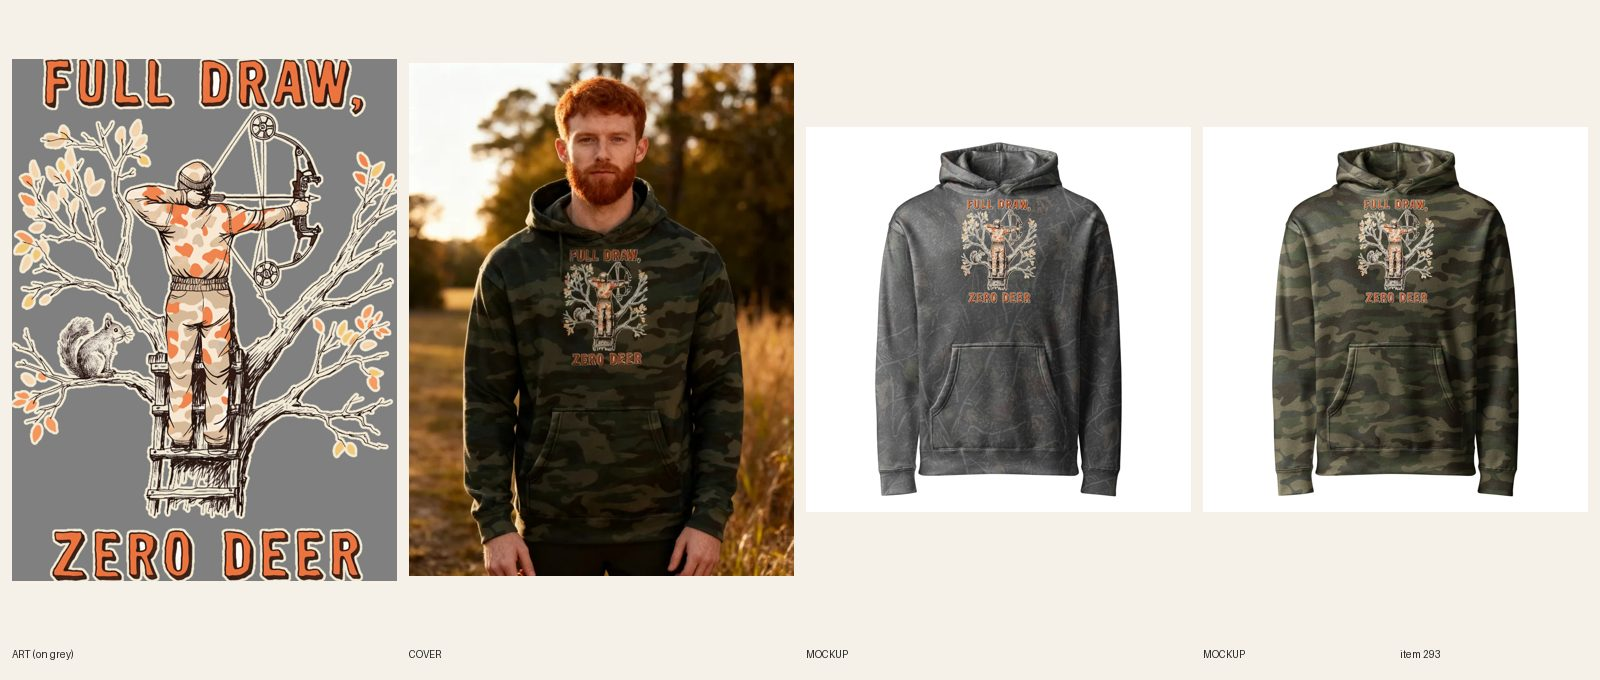
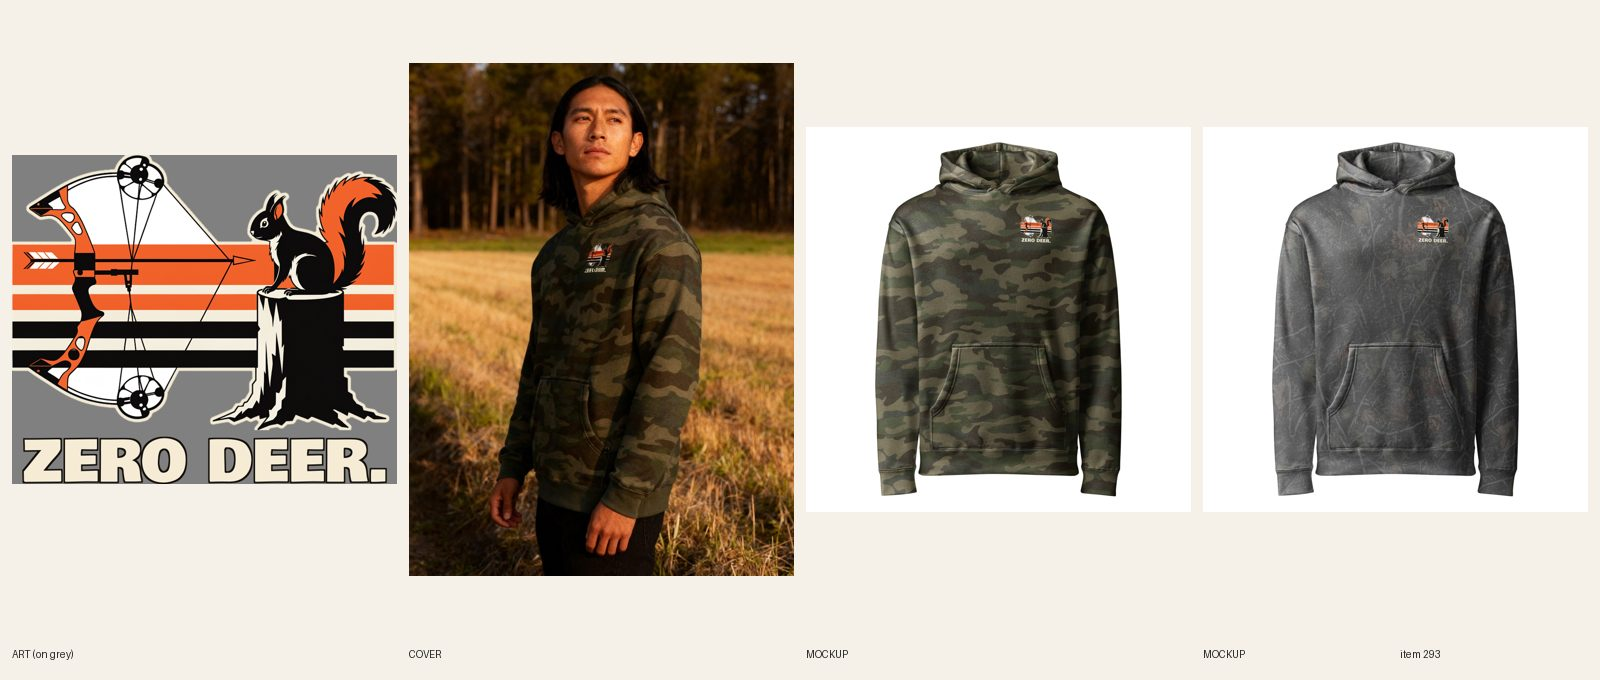
[B] review 293 camo redo 20 (bow vs squirrel B3, lifestyle photos); run end, release lock
Claude-Session: https://claude.ai/code/session_01SLsSLSjLLt4DaKFGsDRRFW

diff --git a/designs/b293/lock.py b/designs/b293/lock.py
@@ -1,0 +1,14 @@
+import sys, subprocess; sys.path.insert(0, '.')
+from designs.lib import *
+from PIL import Image
+W = 2352; DARK = (20, 16, 12, 255)
+subprocess.run(['/usr/bin/python3', 'scripts/camo-halo.py', 'designs/b293/art_p.png', 'designs/b293/art_h.png', '50', '16'], check=True)
+ah = Image.open('designs/b293/art_h.png').convert('RGBA'); ah = ah.crop(ah.getbbox())
+ah = ah.resize((W, int(ah.height * W / ah.width)), Image.LANCZOS)
+t = line('ZERO DEER.', 'bowlby', 0.95, W, CREAM, DARK, kw=19)
+gap = 40; H = ah.height + gap + t.height; out = Image.new('RGBA', (W, H), (0, 0, 0, 0))
+out.alpha_composite(ah, ((W - ah.width) // 2, 0)); out.alpha_composite(t, ((W - t.width) // 2, ah.height + gap))
+out = out.crop(out.getbbox()); out.save('docs/print-files/293-zero.png', dpi=(300, 300))
+print(out.size, 'art', ah.size, 'art %of height', 100 * ah.height // out.height, 'cap', t.height, 'text w', t.width, 'cap at FW625 px', round(t.height * 625 / out.width))
+for n, c in (('darkwood', (60, 56, 44, 255)), ('forest', (52, 62, 44, 255))):
+    b = Image.new('RGBA', out.size, c); b.alpha_composite(out); b.convert('RGB').resize((500, int(500 * out.height / out.width))).save(f'designs/b293/prev_{n}.png')

diff --git a/docs/intake-log.md b/docs/intake-log.md
@@ -1,4 +1,5 @@
-RUNNING lane B since 2026-10-27 17:45 UTC
+2026-10-27 18:00 UTC — [B] Builder run end: 2 items, camo redo #19 #231 (Opening Day buck sunrise, A+) and #20 #293 (Zero Deer bow vs squirrel, B3); both ACTIVE, director to confirm. New products today: 0 of 6. fal ~$0.75. Lock released.
+2026-10-27 17:58 UTC — [B] REVIEW #293 Men's Hunting – Zero Deer Camo Hoodie (camo-redo 20 of 27, S4 retro on B3, FW625 TOP300 LEFT1475, 14/14 on 1096516360, line ZERO DEER. in Bowlby One, art 83% of height, cap 77 px at FW625; new title per 7i; 2 lifestyle photos). Product ACTIVE, director to confirm. fal ~$0.35.
 2026-10-27 17:50 UTC — [B] REVIEW #231 Men's Hunting – Opening Day Camo Hoodie (camo-redo 19 of 27, S1 on A+, FW1500 TOP400, 14/14 on 1096509552, headline 2692 / punch 3001 px = 111%, subject 87%, cap 120 px at FW1500, Playfair Display; 2 lifestyle photos after one retry each). Product ACTIVE, director to confirm. fal ~$0.36.
 2026-10-27 15:07 UTC — [D] Director run: inbox nothing new from Sam. Reviewed 2 camo redo sheets, both LIVE in place (already ACTIVE, not new products): #230 Kick Up Dust (S7 boot on B3; meta trimmed to 147 chars) and #299 Ducks in a Row (REDO fixed: the duckling now leaves the row). 6 new LIVE (Oct 27 Chicago day, cap reached; zip at 56 live, camo at 29 with nothing new to approve, so thin niches and KD 20-or-under searches next): #593 Feral Before 9 A.M. women's cat tee, #545 Mid-Set. Not Interested. women's workout tee (KD 14), #805 jiu jitsu hoodie (KD 17), #787 sauna hoodie (KD 17), #788 swimming hoodie (KD 20), #905 women's golf embroidered zip; all ACTIVE + Online Store, Headless, Google & YouTube, audit --handle PASS. Article #999 christmas-gifts-for-grandma (12,100 / KD 10) approved and live. The 7 old cover ERRORs: the audit now skips covers listed in src/data/retired-covers.json, the way the site does (those pages show the flat product shot); added the 5 missing unisex Christmas handles, so the full audit is 744 products, 0 errors (warnings rose to 443 because retired covers now count as 'no lifestyle cover', which is true). No new briefs: 56 READY, over the 6-12 target (camo twins #956-#969 wait behind the 9 remaining camo redos). Telegram: digest sent. Lock released.
 2026-10-27 14:53 UTC — [H] Helper run: Telegram inbox empty (getUpdates returned 0 updates; no pause, resume or TikTok links; nothing to consume). Shopify: 0 orders at all (checked since 2026-10-26 23:50 UTC, and the unfiltered list is empty), so no order alert and no Printful hold check. Audit 738 live products: 7 ERRORs, all visual (unisex products on women's/men's grids, wrong person on cover), 169 warnings left alone; no scripted fixes; no price errors. Committed docs/cohesion-audit.md and .json (npm ci first; node_modules is a tracked symlink, restored after). Category check: 0 products without a Shopify category (no mutation). Site check: mens-wolf-lone-wolf-early-bedtime-embroidered-zip-hoodie, mens-car-not-stopping-hold-it-embroidered-zip-hoodie and mens-sasquatch-camera-shy-embroidered-zip-hoodie all 200; homepage 200. Stuck work: no item in BUILDING status; no lane lock held. Daily summary (first run after 12:00 UTC, none sent yet today): sent to Sam on Telegram (REVIEW 74, READY 55, audit 7 visual errors, 18 computer jobs). Lock released.

diff --git a/docs/pipeline/293-camo-hoodie-full-draw-zero-deer.md b/docs/pipeline/293-camo-hoodie-full-draw-zero-deer.md
@@ -1,4 +1,4 @@
-status: BUILDING [B] 2026-10-27T17:52Z
+status: REVIEW
 lane: B
 type: new
 id: 293
@@ -36,3 +36,4 @@ handle: mens-hunting-full-draw-zero-deer-camo-hoodie
 - 2026-10-17 03:14 UTC director: approved from docs/review/293.jpg; ACTIVE + Online Store + Headless + Google; cohesion-audit --handle PASS (0 warn). Copy fix: FULL DRAW is lettered straight, not arched. LIVE.
 - 2026-10-22 22:00 UTC Claude (Sam): REDO, camo redo #20 of 27, style S4. New art in its own style, no box, no condensed sans, placement per docs/backlog/camo-redo.md (never TOP 0). Redo in place.
 - 2026-10-22 22:40 UTC Claude (Sam): placement A/B test, this item is B3 (left chest at the seam, tag placement-b).
+- 2026-10-27 17:58 UTC [B]: camo-redo #20 (S4 70s retro bow at full draw aimed at a squirrel on a stump, B3, tag placement-b), in place on product 15362709094704. New art: 2 Recraft calls (first had the arrow aimed away from the squirrel; second aims at it), black/cream/blaze orange stripes, thin cream halo, no box; line ZERO DEER. (2 words; FULL DRAW dropped to fit the 3-word B3 limit) in Bowlby One cream with dark keyline (lane B last faces: Playfair, Yellowtail, Fraunces, Graduate, Rye; Bowlby not among them). Print 2352 x 2010, FW625 TOP300 LEFT1475 (TOP+h 834 <= 2100), art 83% of height, cap 289 px = 77 px at FW625 (floor 53). File 1096516360, 14/14 verified from the Printful sync, back logo 1080398177. Front mockups replaced in place (fileUpdate). New title "Men's Hunting – Zero Deer Camo Hoodie" (7i), copy, FAQ (4 x 46-51 words), SEO and placement-b tag rewritten. Photos: registry 1166 (1 call) and 1167 (2 calls; first printed big and centered), B3 waist-up three-quarter framing, images 1-2, back logo last. Handle added to retired-covers. Audit PASS (1 warn: no lifestyle cover, same as other retired covers). Sheet docs/review/293.jpg. Product is ACTIVE: director to confirm. fal ~$0.35 incl. art.

diff --git a/docs/model-registry.md b/docs/model-registry.md
@@ -958,3 +958,5 @@ Rows 11–43 were re-pointed on 2026-10-08 when the briefs were rewritten from d
 | 1163 | white man, late 50s, grey crew cut, weathered face, lean build, no hat | USED 2026-10-27 — #231 Opening Day camo hoodie photo 2 (seedream, 2 calls) |
 | 1164 | white woman, early 30s, honey-blonde hair in a messy bun, light freckles, medium build | RESERVED 2026-10-26 — #299 photos rejected (2 calls), unused |
 | 1165 | Black woman, late 30s, natural curls to the shoulder, warm smile, medium build | RESERVED 2026-10-26 — #299 photos rejected (2 calls), unused |
+| 1166 | Native American man, early 30s, shoulder-length black hair, clean-shaven, lean build, no hat | USED 2026-10-27 — #293 Zero Deer camo hoodie photo 1 (seedream, 1 call) |
+| 1167 | Black man, mid 30s, short fade, trimmed beard, broad build, no hat | USED 2026-10-27 — #293 Zero Deer camo hoodie photo 2 (seedream, 2 calls) |
